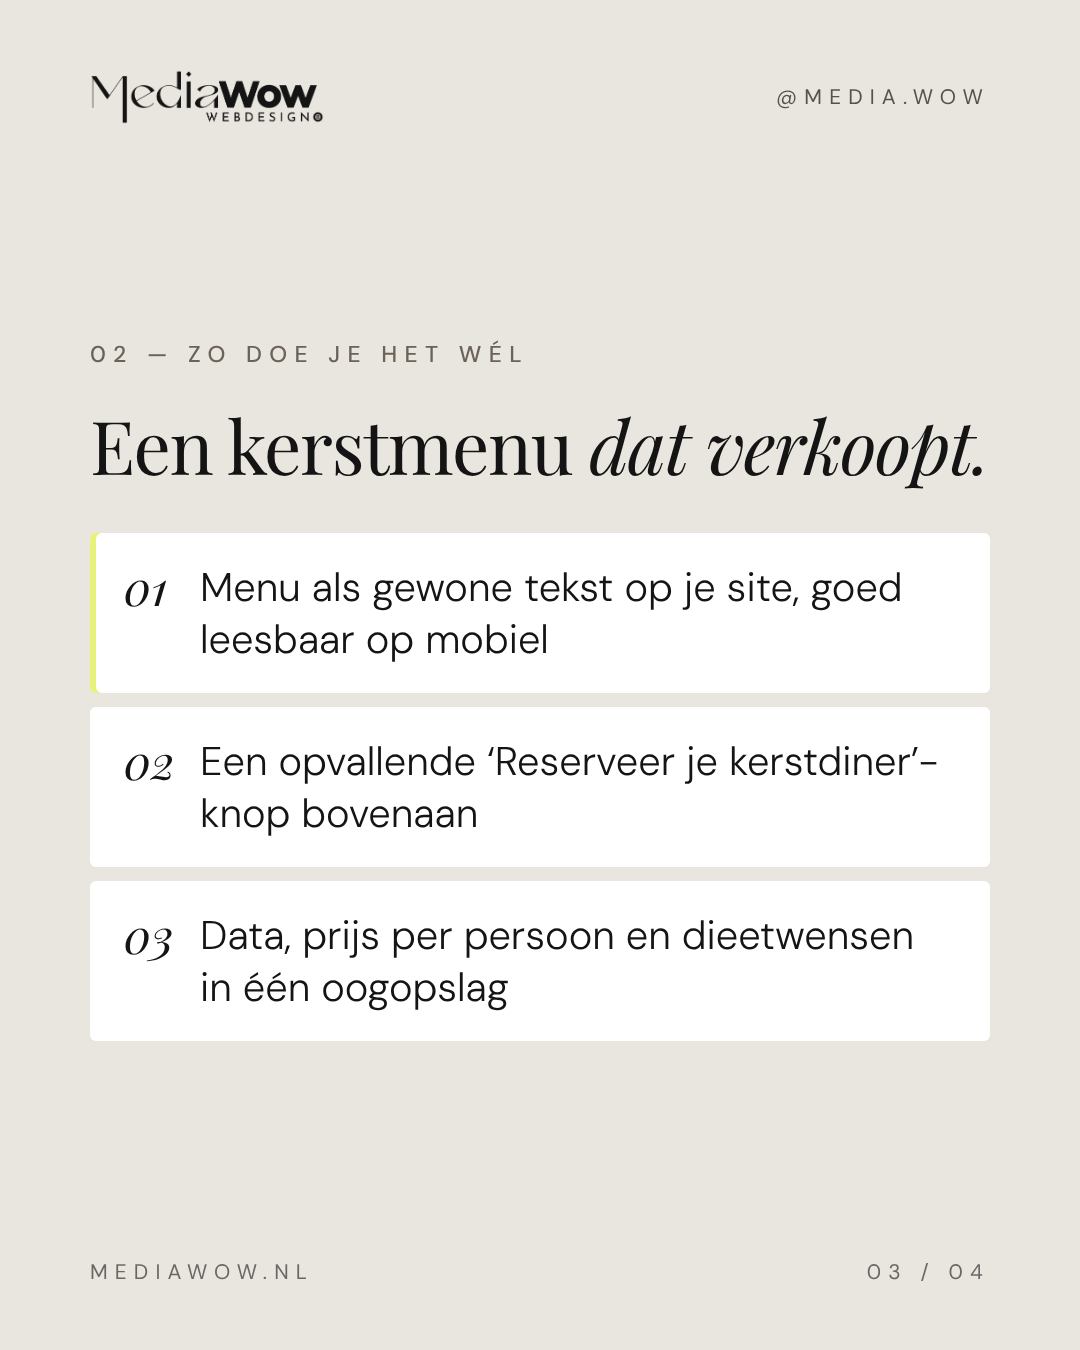
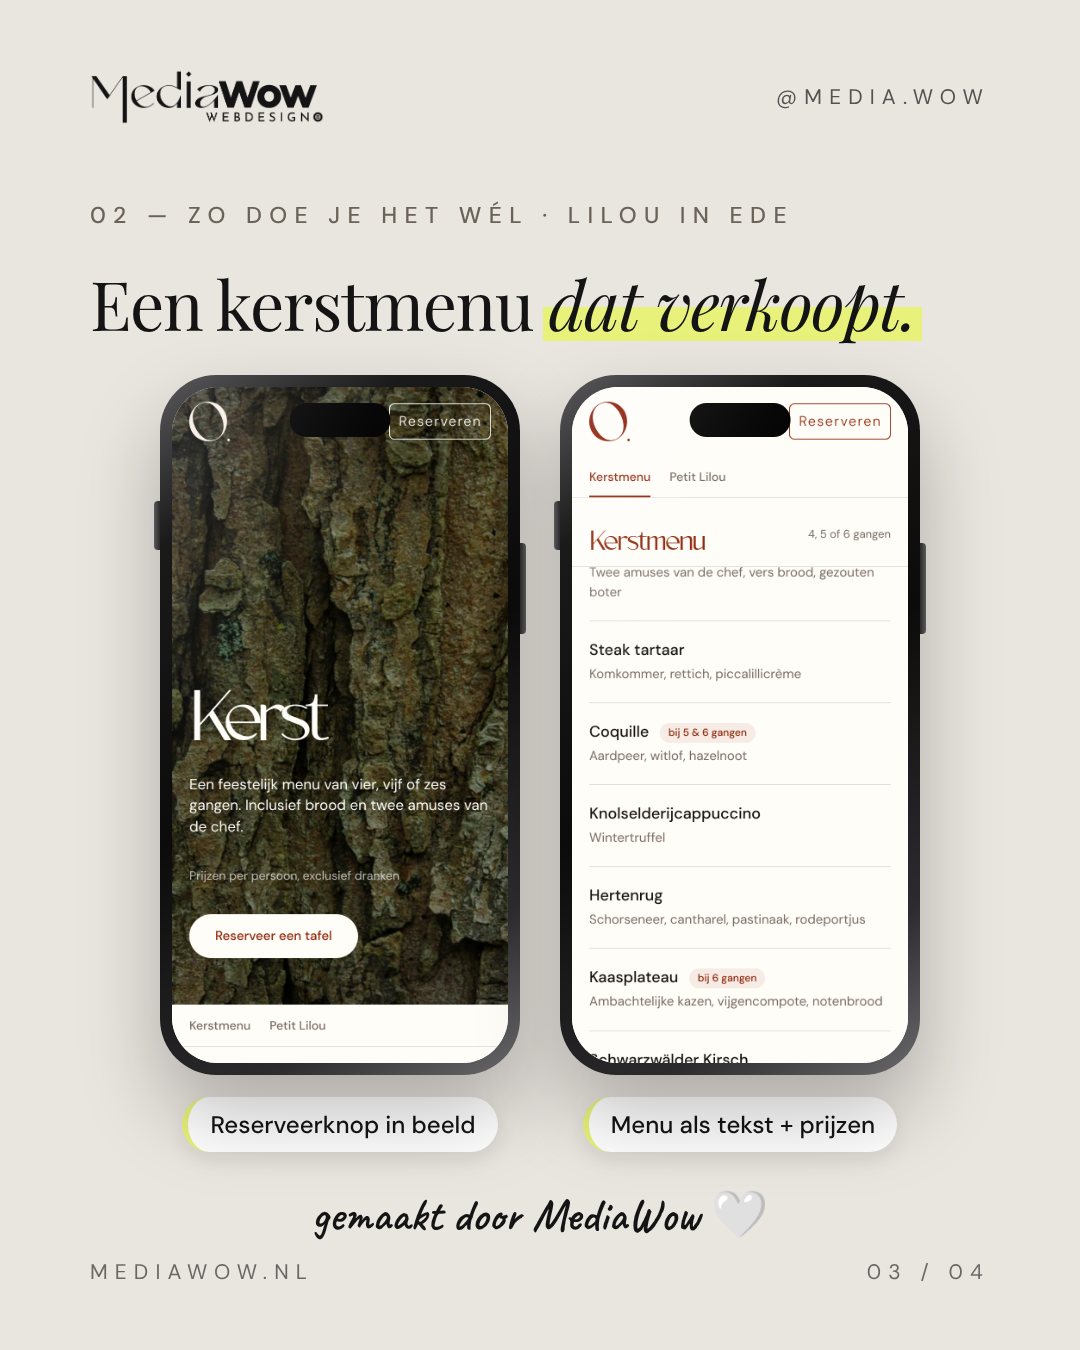
Week 2 Monday: Lilou Christmas menu as good example
Claude-Session: https://claude.ai/code/session_01RBQ5c9Pv2G8CobvSf5vDwJ

diff --git a/instagram/slides-week2.js b/instagram/slides-week2.js
@@ -35,13 +35,13 @@ module.exports = [
         <h1 class="lg">Inzoomen. Wachten. Scrollen. <em>Wegklikken.</em></h1>
         <p class="lead">Op een telefoon is een pdf-menu een afknapper. En in december zoeken gasten juist dáár naar jouw kerstdiner.</p>` },
       { theme: 'greige', html: `
-        <div class="kicker">02 — Zo doe je het wél</div>
-        <h2>Een kerstmenu <em>dat verkoopt.</em></h2>
-        <div class="list">
-          <div><i>01</i>Menu als gewone tekst op je site, goed leesbaar op mobiel</div>
-          <div><i>02</i>Een opvallende ‘Reserveer je kerstdiner’-knop bovenaan</div>
-          <div><i>03</i>Data, prijs per persoon en dieetwensen in één oogopslag</div>
-        </div>` },
+        <div class="kicker">02 — Zo doe je het wél · Lilou in Ede</div>
+        <h2>Een kerstmenu <em><span class="mark">dat verkoopt.</span></em></h2>
+        <div class="duo">
+          <div class="duo-col">${phone(`<img class="shot" src="{{img:lilou/kerst-top.png}}">`, 'phone-duo')}<div class="duo-cap">Reserveerknop in beeld</div></div>
+          <div class="duo-col">${phone(`<img class="shot" src="{{img:lilou/kerst-mid.png}}">`, 'phone-duo')}<div class="duo-cap">Menu als tekst + prijzen</div></div>
+        </div>
+        <div class="hand" style="text-align:center;margin-top:34px;font-size:46px">gemaakt door MediaWow 🤍</div>` },
       { theme: 'photo', html: `
         <img class="bg-photo" src="{{img:canva/foto-015.jpg}}"><div class="bg-fade" style="background:rgba(15,10,10,.66)"></div>
         <div class="fg">
@@ -54,7 +54,7 @@ module.exports = [
 
 Op een telefoon is een pdf-menu een afknapper: inzoomen, wachten, scrollen. En juist in december zoeken gasten op hun telefoon naar een plek voor het kerstdiner.
 
-Zo doe je het wél:
+Zo doe je het wél (kijk maar naar het kerstmenu van @lilou_ede op slide 3):
 ✔ menu als gewone tekst, goed leesbaar op mobiel
 ✔ een opvallende ‘Reserveer je kerstdiner’-knop bovenaan
 ✔ data, prijs per persoon en dieetwensen in één oogopslag

diff --git a/instagram/build.js b/instagram/build.js
@@ -329,6 +329,14 @@ em{font-style:italic}
 .s:has(.phone-pdf){justify-content:flex-start;padding-top:190px}
 .s:has(.phone-pdf) .ftr{display:none}
 .phone-pdf .menu-page{padding:34px 30px 38px}
+.duo{display:flex;gap:40px;justify-content:center;margin-top:36px}
+.duo-col{display:flex;flex-direction:column;align-items:center;gap:22px}
+.s:has(.duo){justify-content:flex-start;padding-top:200px}
+.s:has(.duo) h2{font-size:68px}
+.phone-duo{width:360px;height:700px;border-radius:56px;padding:12px}
+.phone-duo .screen{border-radius:46px}
+.shot{width:100%;height:100%;object-fit:cover;object-position:top}
+.duo-cap{font-size:24px;white-space:nowrap;font-weight:500;background:#fff;padding:12px 22px;border-radius:100px;box-shadow:0 8px 20px rgba(0,0,0,.08);border-left:6px solid #E8F27A}
 `;
 
 function slideHTML(sl, i, n) {
